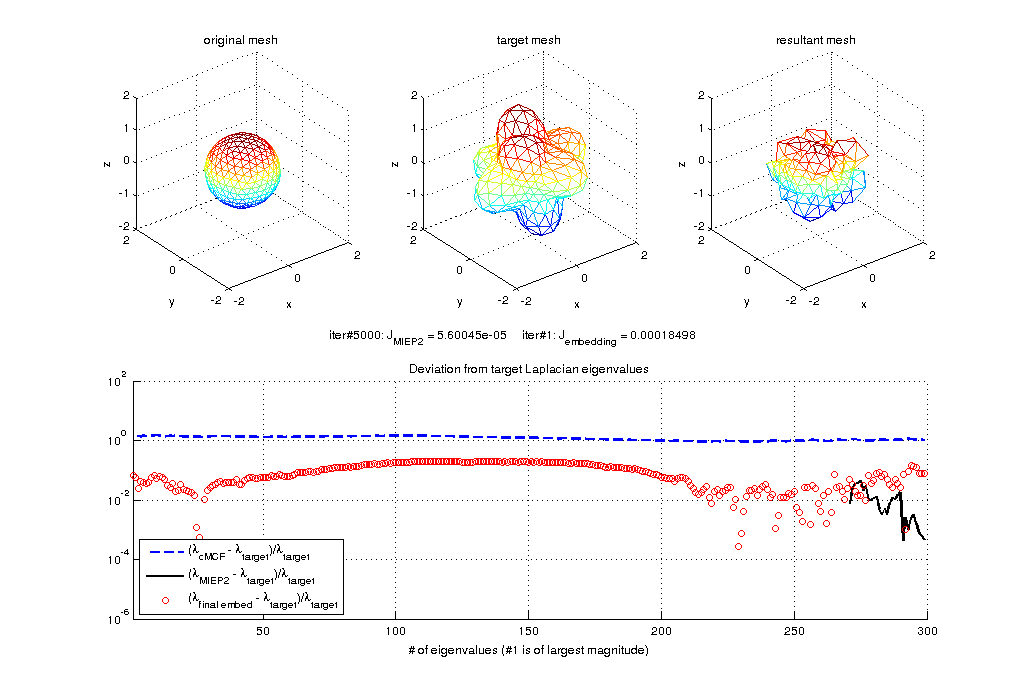
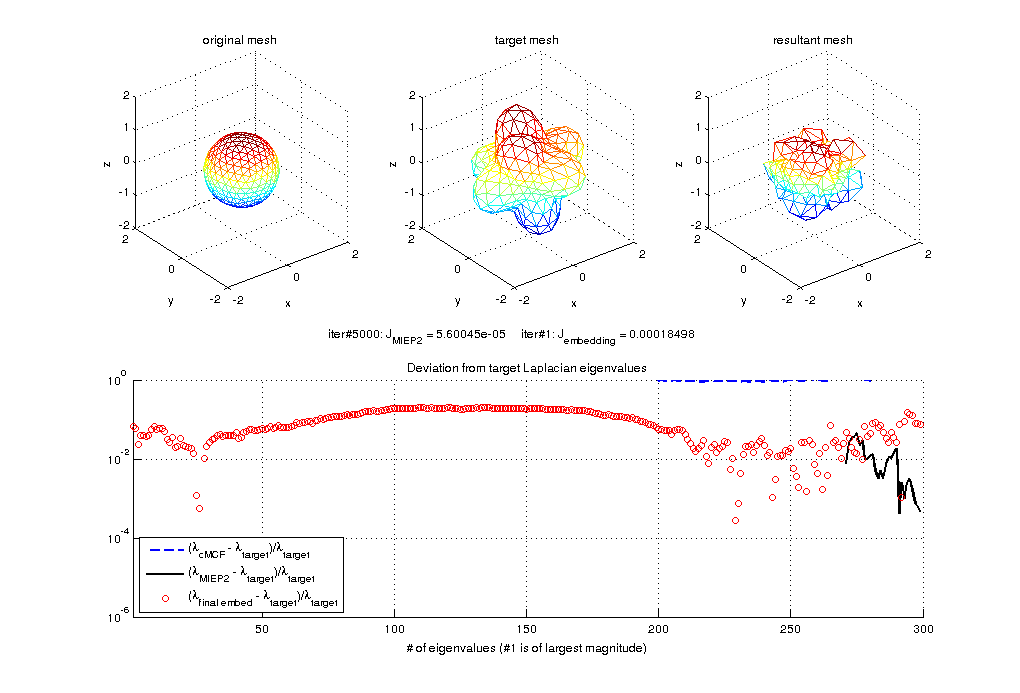
asdf

diff --git a/analysis.m b/analysis.m
@@ -1,7 +1,7 @@
 clear;
 vnorm = @(v) sqrt(v(:,3).^2+v(:,1).^2+v(:,2).^2);
 %% control parameters
-imax = 5e3; % gradient descent maximum iterations
+imax = 5e4; % gradient descent maximum iterations
 aC = .7; bC = .8; tC = 10; etolC = 1e-5; % Conformal descent control
 aS = .8; bS = .9; tS = 150; etolS = 1e-8; % invSpec descent control
 % numeig = .6; % number of eigenvalues used, <=1 => percent, <=0 => all
@@ -125,9 +125,7 @@ rng(1432543); % rand seed
 %% cMCF debug
 %   load i2_500_t2_abs(Y33(v))_e0.5p0.512.mat
 %   numeig = ceil(.5*numv);
-%   load i2_1000_t3_bunny2k_e0.3p0.512.mat
-%   load i2_300_t3_bunny282_e0.3p0.512_Nmcf1000.mat
-  load i2_300_t3_bunny326_e0.2p0.512_Nmcf1000.mat
+  load i3_300_t3_bunny2k_e20p0.mat
   numv = size(v,1); % number of vertices
   numf = size(f,1); % number of faces
   numeig = ceil(.2*numv);
@@ -162,8 +160,12 @@ rng(1432543); % rand seed
   %% re-embedding
   conf_T = sqrt(kron(1./s_T',1./s_T));
   elsq_T = elsq0.*conf_T(isedge); % linear indices
-  [Jc_Thist,v_Thist] = gradescent(@conformalcost,imax,aC,bC,tC,etolC,0,...
-    reshape(v0',[],1),isedge,elsq_T);
+  test = @(v) conformalcost(v,isedge,elsq_T);
+  options = optimset('GradObj','on','display','iter-detailed',...
+    'maxiter',imax,'largescale','off','tolfun',eps,'tolx',eps);
+  [v_Thist,Jc_hist] = fminunc(test,reshape(v',[],1),options);
+% [Jc_Thist,v_Thist] = gradescent(@conformalcost,imax,aC,bC,tC,etolC,0,...
+%   reshape(v0',[],1),isedge,elsq_T);
   v_c = reshape(v_Thist(:,end),3,[])';
 
   %% how well does it do?

diff --git a/do_graphics.m b/do_graphics.m
@@ -1,5 +1,5 @@
 close all;
-[~,datalist] = unix('basename -s .mat -a i*bunny2k*.mat');
+[~,datalist] = unix('basename -s .mat -a i3*bunny2k*.mat');
 % [token,remain] = strtok(datalist);
 datalist = textscan(datalist,'%s');
 for i = 1:size(datalist{1},1)
@@ -20,8 +20,8 @@ end
 % unix('mv i2_300_t2_abs\(Y32\(v\)\)_e0.1p1.png i2_300_t2_abs\(Y32\(v\)\)_e0.1p1.0.png')
 % unix('mv i2_300_t2_abs\(Y32\(v\)\)_e0.1p2.png i2_300_t2_abs\(Y32\(v\)\)_e0.1p2.0.png')
 % unix('convert -delay 100 -loop 0 i2_300_t2_abs\(Y32\(v\)\)_e*.png i2_300_t2_abs\(Y32\(v\)\)_e0.1p0.5-2.gif');
-% unix('mv i3_300_t2_abs\(Y32\(v\)\)_e0.1p1.png i3_300_t2_abs\(Y32\(v\)\)_e0.1p1.0.png')
-% unix('mv i3_300_t2_abs\(Y32\(v\)\)_e0.1p2.png i3_300_t2_abs\(Y32\(v\)\)_e0.1p2.0.png')
-% unix('convert -delay 100 -loop 0 i3_300_t2_abs\(Y32\(v\)\)_e*.png i3_300_t2_abs\(Y32\(v\)\)_e0.1p0.5-2.gif');
+unix('mv i3_300_t2_abs\(Y32\(v\)\)_e0.1p1.png i3_300_t2_abs\(Y32\(v\)\)_e0.1p1.0.png')
+unix('mv i3_300_t2_abs\(Y32\(v\)\)_e0.1p2.png i3_300_t2_abs\(Y32\(v\)\)_e0.1p2.0.png')
+unix('convert -delay 100 -loop 0 i3_300_t2_abs\(Y32\(v\)\)_e*.png i3_300_t2_abs\(Y32\(v\)\)_e0.1p0.5-2.gif');
 % unix('mv i2_300_t2_abs\(Y33\(v\)\)_e1p0.5.png i2_300_t2_abs\(Y33\(v\)\)_e1.0p0.5.png')
 % unix('convert -delay 100 -loop 0 i2_300_t2_abs\(Y33\(v\)\)_e*.png i2_300_t2_abs\(Y33\(v\)\)_e0.1-1p0.5.gif');

diff --git a/visualize.m b/visualize.m
@@ -59,12 +59,12 @@ D_MCF = eigvf(L,diag(1./s_T)*M,size(v,1));
 D_T = eigvf(L_T,M_T,size(v,1));
 [M_end,L_end] = lapbel(v_end,f);
 D_end = eigvf(L_end,M_end,size(v,1));
-% if ~isempty(s_end)
-%   [M,L] = lapbel(v,f);
-%   D_endp = eigvf(L,diag(1./s_end)*M,size(v,1));
-% else
+if ~isempty(s_end)
+  [M,L] = lapbel(v,f);
+  D_endp = eigvf(L,diag(1./s_end)*M,size(v,1));
+else
   D_endp = [nan(size(v,1)-numel(D_endp),1); D_endp];
-% end
+end
 
 subplot(2,3,4:6); hold all; grid on;
 v0 = (D_MCF - D_T)./D_T;
